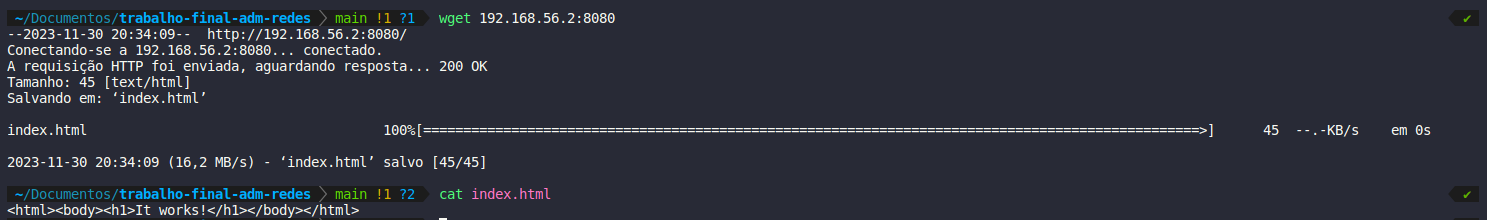
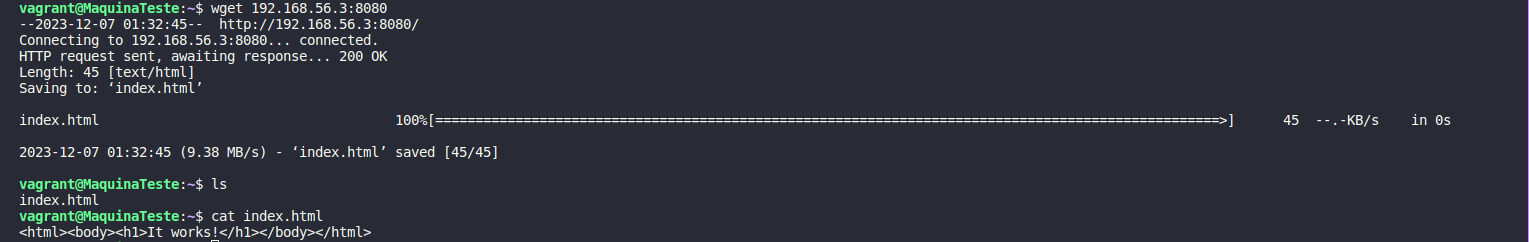
documentação e serviços funcionando exceto NFS

diff --git a/README.md b/README.md
@@ -46,6 +46,8 @@ sudo apt update
 sudo apt upgrade -y
 ```
 
+Após realizar a instalação das ferramentas, abra o virtualbox digitanto `virtualbox` no terminal e exclua quaisquer resquicios de outras máquinas virtuais e outros serviços de rede.
+
 Com as ferramentas devidamente instaladas basta executar o comando abaixo estando dentro da [pasta principal](./) clonada (trabalho-final-adm-redes):
 
 ```shell
@@ -58,13 +60,13 @@ Espera-se que as vms sejam criadas e devidamente configuradas sem a presença de
 
 - vm1
   - Esta máquina virtual irá hospedar todos os serviços listados anteriormente.
-  - A ela é atribuido o IP 192.168.56.2.
+  - A ela é atribuido o IP 192.168.56.3.
 - vmTeste
   - Já esta máquina virtual servirá apenas para realizar os devidos testes a cada serviço oferecido pela vm1. O ip dela será atribuido pelo serviço DHCP da vm1.
 
 ### Topologias, Estruturas Utilizadas e Funcionamento dos Serviços
 
-- A máquina virtual principal (VM1) será configurada com o ip privado 192.168.56.2 com a seguinte máscara de sub-rede 255.255.255.254/24, será por esse ip que será possivel acessar os serviços FTP
+- A máquina virtual principal (VM1) será configurada com o ip privado 192.168.56.3 com a seguinte máscara de sub-rede 255.255.255.254/24, será por esse ip que será possivel acessar os serviços FTP
 
 - O primeiro container docker que será criado é um container que proverá serviços DHCP. O container receberá um arquivo [dhcp.conf](./config_archives/dhcpd_conf.sh) contendo as devidas configurações para o serviço. Também, o container será vinculado a porta 67/udp da **vm1** e será por ela o servidor DHCP atribuirá o ip para novas maquinas que aparecerem na rede.
 
@@ -108,21 +110,21 @@ Espera-se que as vms sejam criadas e devidamente configuradas sem a presença de
 
 - #### FTP
 
-  - Para testar o serviço FTP, na sua máquina você deverá executar o seguinte comando no console
+  - Para testar o serviço FTP, na máquina teste (vmTeste) você deverá executar o seguinte comando no terminal:
 
   ```shell
-  ftp 192.168.56.2 21
+  ftp 192.168.56.3
   ```
 
-  - Quando pedir usuário digite `kkazin` e a senha: `kkazin`. Se a conexão for estabelecida, você poderá utilizar o comando `put` para adicionar um arquivo e `get` para fazer o download deste arquivo.
+  - Quando pedir usuário digite: `kkazin` e a senha: `kkazin`. Se a conexão for estabelecida, você poderá utilizar o comando `put` para adicionar um arquivo e `get` para fazer o download deste arquivo em outra máquina conectada à sessão ftp.
     ![FTP Teste](images/image4.png)
 
 - #### Servidor WEB Apache
 
-  - Para testar o servidor web apache, basta, na `vm1` ou na máquina host executar o seguinte comando
+  - Para testar o servidor web apache, basta, na `vmTeste` executar o seguinte comando:
 
   ```shell
-  wget 192.168.56.2:8080
+  wget 192.168.56.3:8080
   ```
 
   - Após o comando será baixado um arquivo index.html exibindo uma mensagem escrita "It Works !"
